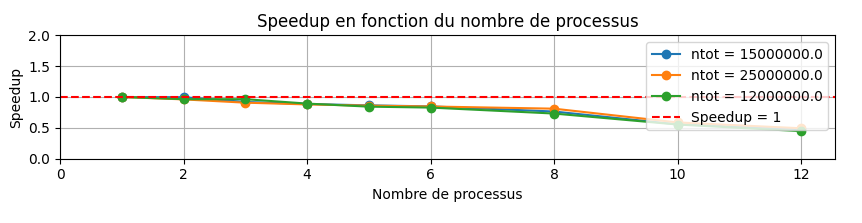
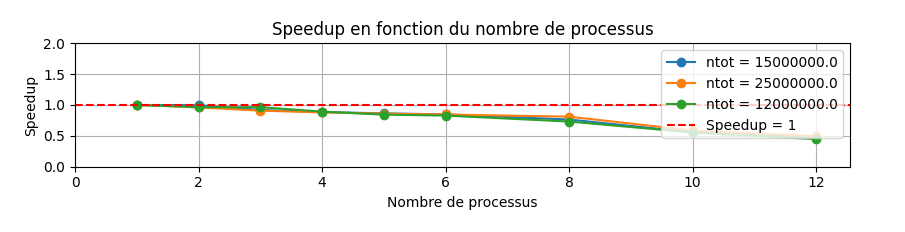
realisation des captures d'ecran

diff --git a/analyse_scalabilite_faible.py b/analyse_scalabilite_faible.py
@@ -1,6 +1,5 @@
 import numpy as np
 import matplotlib.pyplot as plt
-from six import print_
 
 # Fonction pour lire les données à partir d'un fichier
 def read_data(file_path):
@@ -54,17 +53,17 @@ def plot_speedup(speedup_data, nombre_process_data, ntot_values):
 
 # Main
 if __name__ == "__main__":
-    file_paths = [
-        'out_ass102_g26_4c_faible_120000.txt',
-        'out_ass102_g26_4c_faible_1200000.txt',
-        'out_ass102_g26_4c_faible_12000000.txt'
-    ]  # Liste des chemins de fichiers
-
     # file_paths = [
-    #     'out_pimw_g26_4c_faible_15000000.txt',
-    #     'out_pimw_g26_4c_faible_25000000.txt',
-    #     'out_pimw_g26_4c_faible_12000000.txt'
+    #     'out_ass102_g26_4c_faible_120000.txt',
+    #     'out_ass102_g26_4c_faible_1200000.txt',
+    #     'out_ass102_g26_4c_faible_12000000.txt'
     # ]  # Liste des chemins de fichiers
+
+    file_paths = [
+        'out_pimw_g26_4c_faible_15000000.txt',
+        'out_pimw_g26_4c_faible_25000000.txt',
+        'out_pimw_g26_4c_faible_12000000.txt'
+    ]  # Liste des chemins de fichiers
 
     # Initialiser des listes pour stocker les résultats
     speedup_data = []
